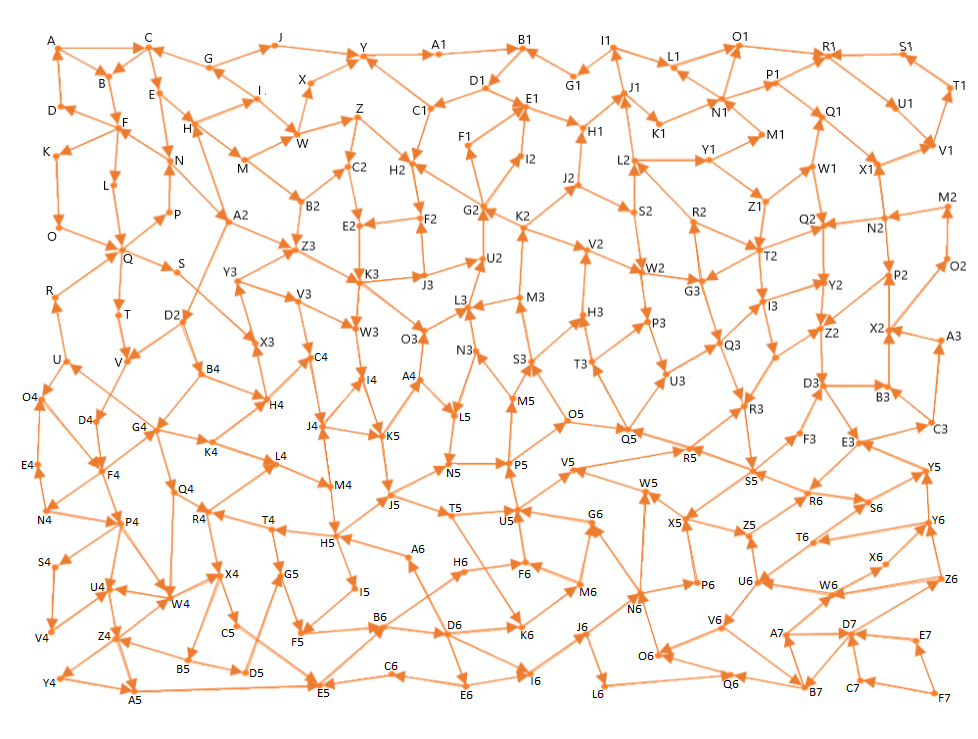
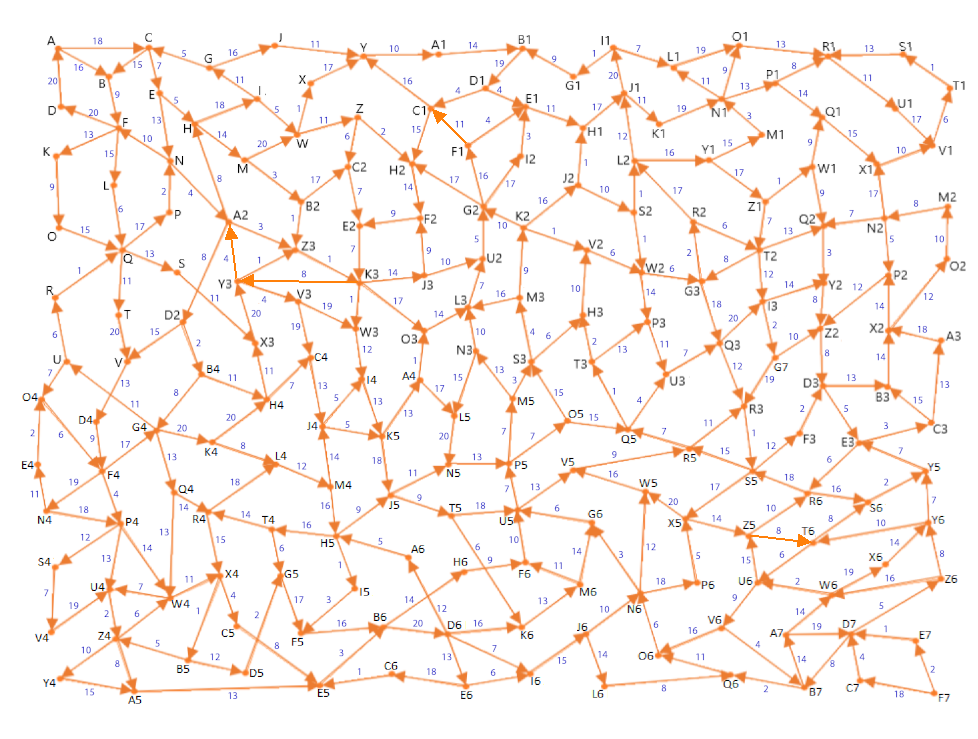
bug fixes and improvements

diff --git a/gui.py b/gui.py
@@ -60,6 +60,8 @@ class Window(QWidget):
         dest_label.setSizePolicy(QtWidgets.QSizePolicy.Maximum, QtWidgets.QSizePolicy.Preferred)
         self.dest_input.setMaximumWidth(50)
         submit_btn = QPushButton("FIND PATH")
+        submit_btn.setStyleSheet("background: green; color:white; padding: 5px 10px;")
+        submit_btn.setIcon(QtGui.QIcon("search.png"))
         submit_btn.setSizePolicy(QtWidgets.QSizePolicy.Maximum, QtWidgets.QSizePolicy.Fixed)
         submit_btn.clicked.connect(self.find_shortest_path)
         left_spacer = QSpacerItem(40, 20, QtWidgets.QSizePolicy.Expanding, QtWidgets.QSizePolicy.Fixed)

diff --git a/graph_complex.py b/graph_complex.py
@@ -301,7 +301,11 @@ edges = {
     300: ('F7', 'E7', 2),
     301: ('F7', 'C7', 18),
     302: ('G7', 'Z2', 10),
-    303: ('G7', 'R3', 19)
+    303: ('G7', 'R3', 19),
+    304: ('Z5', 'T6', 8),
+    305: ('F1', 'C1', 11),
+    306: ('K3', 'Y3', 8),
+    307: ('Y3', 'A2', 4)
 }
 
 vertex_list = {
